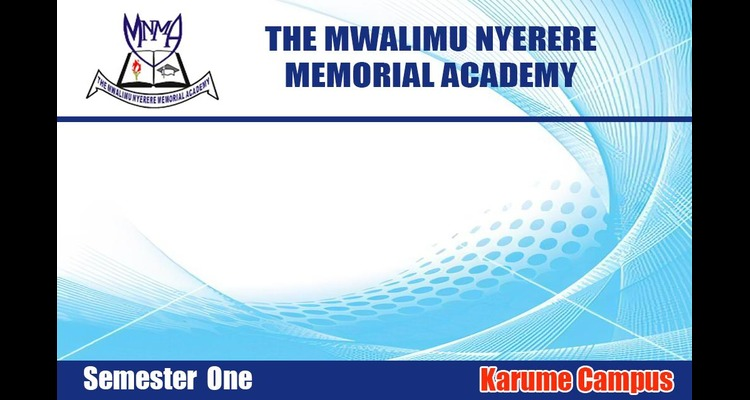
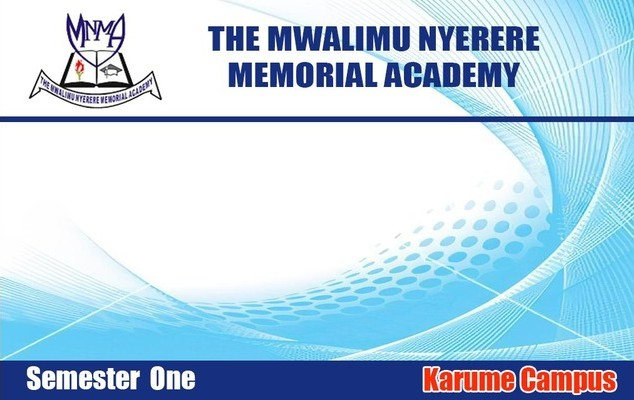
Image resizes and extensions

diff --git a/resources/views/dashboard/registration/reports/id-card.blade.php b/resources/views/dashboard/registration/reports/id-card.blade.php
@@ -223,15 +223,15 @@
 <body>
    @if ($student->applicant->campus_id == 1)
         @if ($tuition_payment_check)
-            <div id="ss-id-card" class="ss-id-card" style="background-image: url({{ asset('img/mnma-id-bg-semi 1&2 Kivukoni.png') }});  background-size:  71rem 50rem; background-repeat: no-repeat; width: 750px; height: 400px; ">
+            <div id="ss-id-card" class="ss-id-card" style="background-image: url({{ asset('img/mnma-id-bg-semi 1&2 Kivukoni.jpg') }});  background-size:  71rem 50rem; background-repeat: no-repeat; width: 750px; height: 400px; ">
         @else
             <div id="ss-id-card" class="ss-id-card" style="background-image: url({{ asset('img/mnma-id-bg-semi 1-Kivukoni.jpg') }});  background-size:  71rem 50rem; background-repeat: no-repeat; width: 750px; height: 400px;">
         @endif
    @elseif($student->applicant->campus_id == 2)
         @if ($tuition_payment_check)
-         <div id="ss-id-card" class="ss-id-card" style="background-image: url({{ asset('img/mnma-id-bg-semi 1&2 Karume.png') }});  background-size:  71rem 50rem; background-repeat: no-repeat; width: 750px; height: 400px; ">
+         <div id="ss-id-card" class="ss-id-card" style="background-image: url({{ asset('img/mnma-id-bg-semi 1&2 Karume.jpg') }});  background-size:  71rem 50rem; background-repeat: no-repeat; width: 750px; height: 400px; ">
         @else
-         <div id="ss-id-card" class="ss-id-card" style="background-image: url({{ asset('img/mnma-id-bg-semi1.png') }});  background-size:  71rem 50rem; background-repeat: no-repeat; width: 750px; height: 400px; ">
+         <div id="ss-id-card" class="ss-id-card" style="background-image: url({{ asset('img/WhatsApp Image 2023-10-16 at 14.42.44_9a95e42e.jpg') }});  background-size:  71rem 50rem; background-repeat: no-repeat; width: 750px; height: 400px; ">
         @endif
    @endif
 
